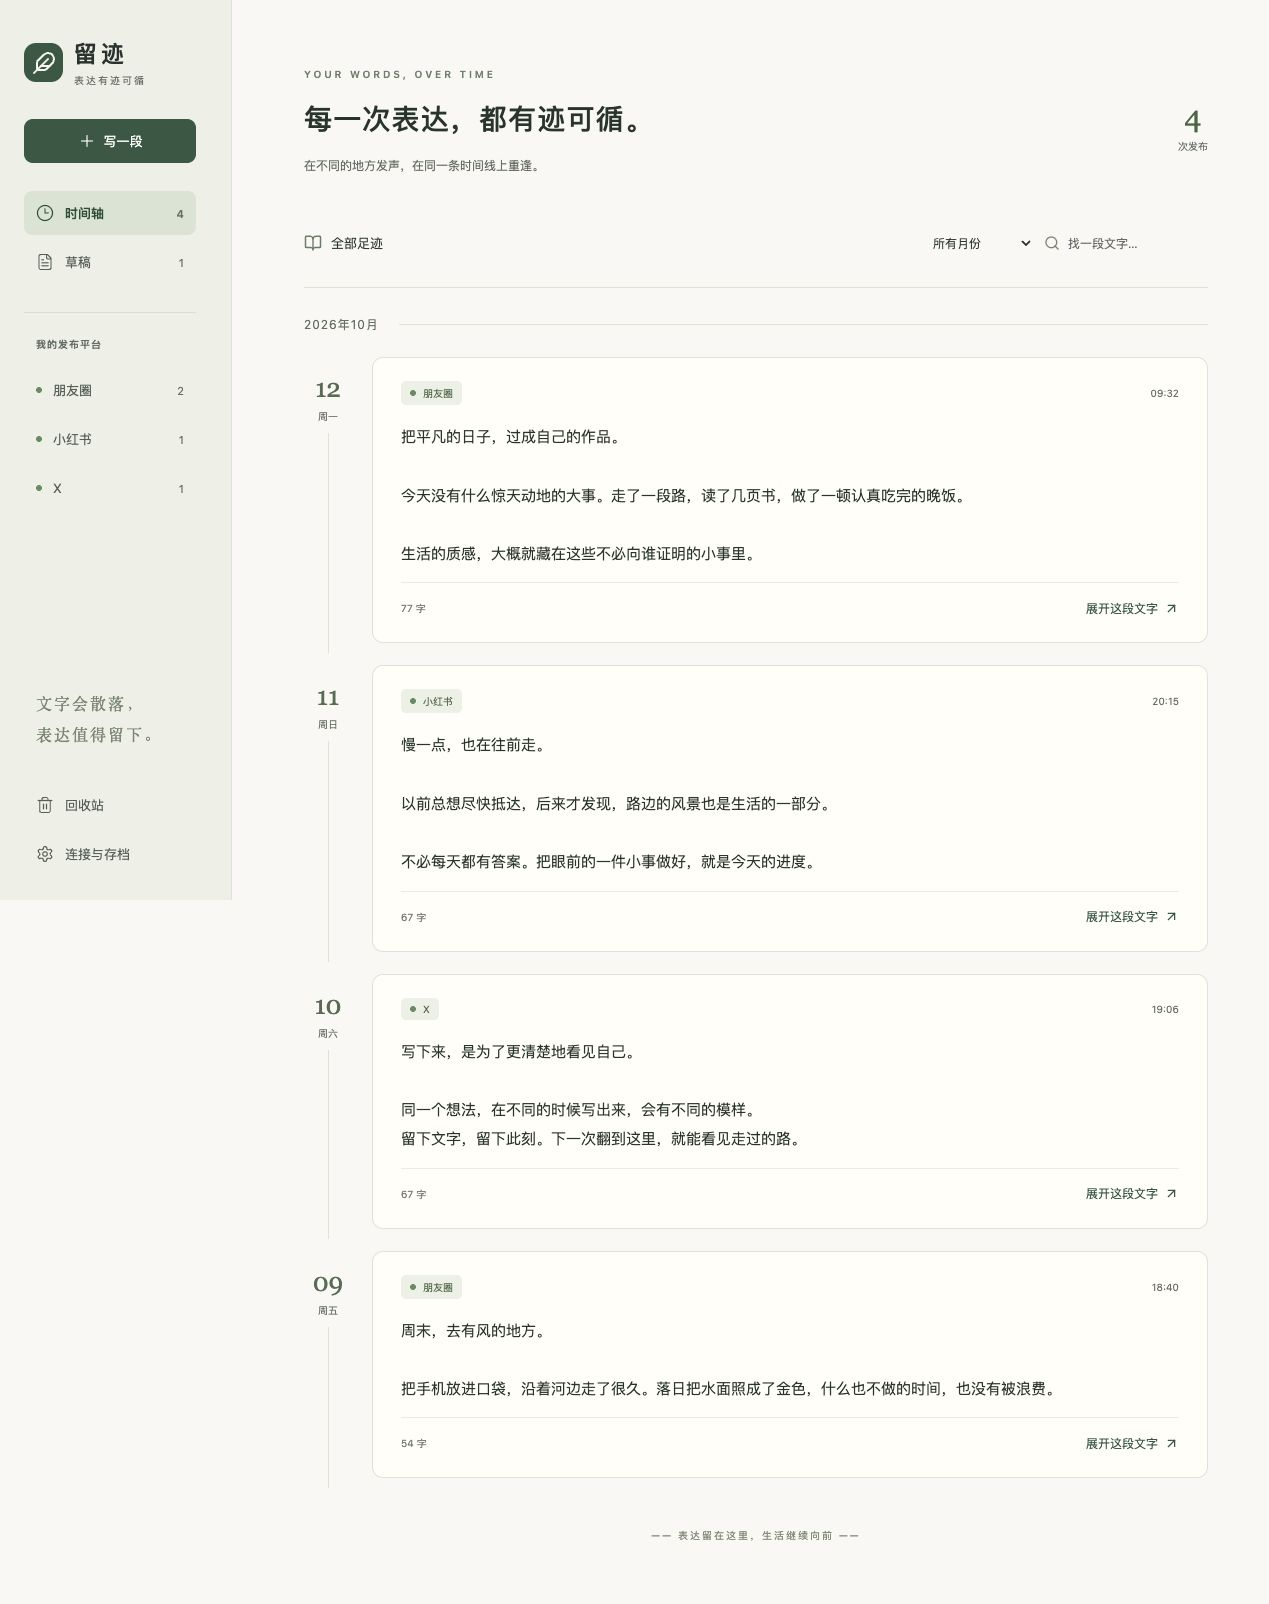
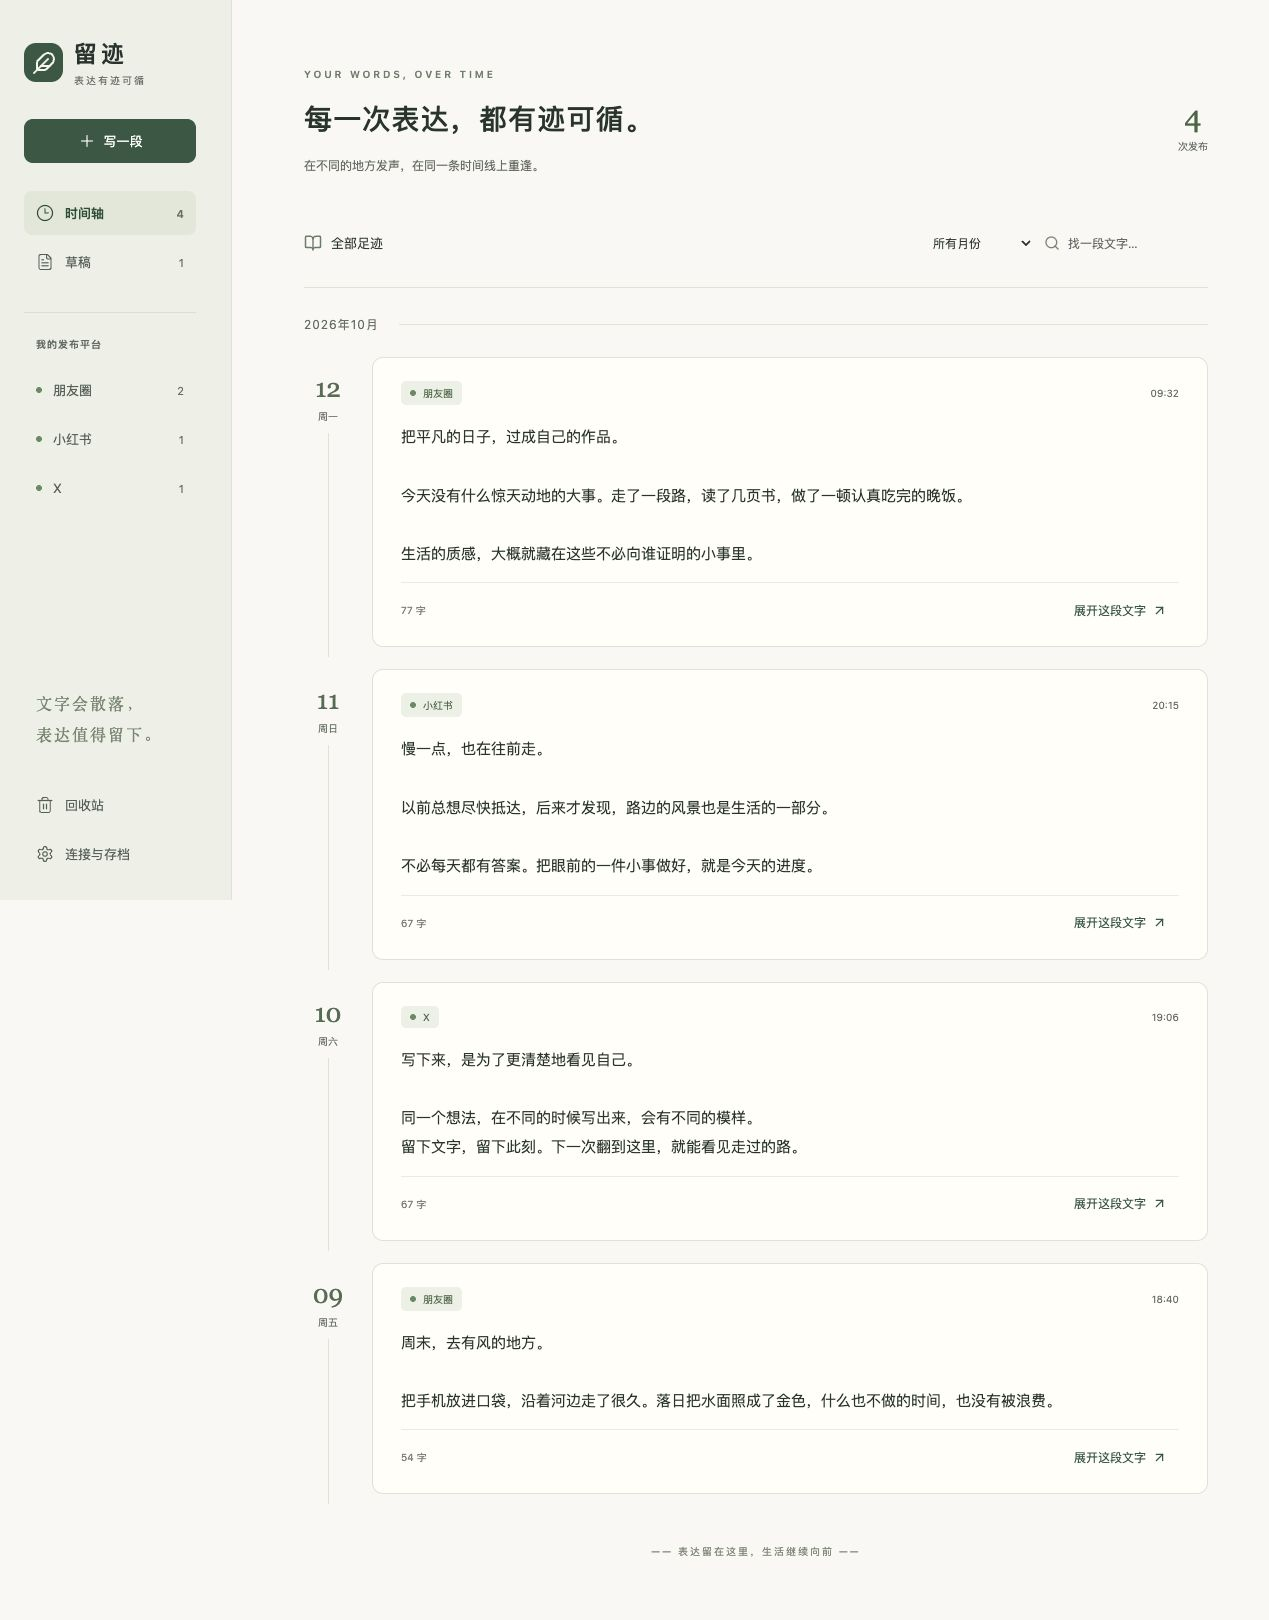
fix: confirm published deletions and use official Node image

diff --git a/src/main.jsx b/src/main.jsx
@@ -212,18 +212,22 @@ function Editor({ initial, onBack, onChanged, notify }) {
     } finally {
       setActionBusy(false);
     }
-  }}>另存新草稿</Button></div>}<footer className="writing-footer"><span>{count} 字 · 自动保存</span><button className="text-button editor-delete" disabled={actionBusy} onClick={() => action(() => setModal("trash"))}><Trash2 size={17} aria-hidden="true" />删除</button></footer>{entry.publications.length > 0 && <div className="entry-history"><h3>这段文字的足迹</h3>{entry.publications.map((p) => <div key={p.id}><span className="platform-dot" />{p.platform}<time>{formatDate(p.publishedAt, { month: "long", day: "numeric", hour: "2-digit", minute: "2-digit", hourCycle: "h23" })}</time></div>)}</div>}</div>{modal === "export" && <ExportDialog text={text} date={entry.createdAt} onClose={() => setModal("")} />}{modal === "publish" && <PublishDialog entry={current.current} onClose={() => setModal("")} onDone={(e) => {
+  }}>另存新草稿</Button></div>}<footer className="writing-footer"><span>{count} 字 · 自动保存</span><button className="text-button editor-delete" disabled={actionBusy} onClick={() => action(async (savedEntry) => {
+    if (savedEntry.publications.length) { setModal("trash"); return; }
+    await api(`/entries/${savedEntry.id}/trash`, { method: "POST", body: { expectedVersion: savedEntry.version, draftOnly: true } });
+    onChanged(); onBack(); notify("草稿已移至回收站，可随时恢复。");
+  })}><Trash2 size={17} aria-hidden="true" />删除</button></footer>{entry.publications.length > 0 && <div className="entry-history"><h3>这段文字的足迹</h3>{entry.publications.map((p) => <div key={p.id}><span className="platform-dot" />{p.platform}<time>{formatDate(p.publishedAt, { month: "long", day: "numeric", hour: "2-digit", minute: "2-digit", hourCycle: "h23" })}</time></div>)}</div>}</div>{modal === "export" && <ExportDialog text={text} date={entry.createdAt} onClose={() => setModal("")} />}{modal === "publish" && <PublishDialog entry={current.current} onClose={() => setModal("")} onDone={(e) => {
     current.current = e;
     setEntry(e);
     setModal("");
     onChanged();
     notify("发布已记录，时间轴多了一枚足迹。");
-  }} />}{modal === "trash" && <Dialog title="移至回收站？" onClose={() => setModal("")}><p>原稿和发布记录会一起隐藏，之后可以恢复。</p><div className="form-footer"><Button onClick={() => setModal("")}>取消</Button><Button kind="primary" disabled={actionBusy} onClick={() => action(async (e) => {
+  }} />}{modal === "trash" && <Dialog title="删除这篇正文？" onClose={() => setModal("")}><p>这篇正文已经发布。删除后，原稿和发布记录会一起移入回收站，之后可以恢复。</p><div className="form-footer"><Button onClick={() => setModal("")}>取消</Button><Button kind="primary" disabled={actionBusy} onClick={() => action(async (e) => {
     await api(`/entries/${e.id}/trash`, { method: "POST", body: { expectedVersion: e.version } });
     onChanged();
     onBack();
     notify("已移至回收站，可随时恢复。");
-  })}>移至回收站</Button></div></Dialog>}</section>;
+  })}>确认删除</Button></div></Dialog>}</section>;
 }
 function SettingsDialog({ onClose, onLogout, notify, authRequired }) {
   const [tokens, setTokens] = useState([]), [name, setName] = useState("工作台"), [scope, setScope] = useState("read"), [issued, setIssued] = useState(null), [error, setError] = useState(""), [busy, setBusy] = useState(false), [revoke, setRevoke] = useState(null);

diff --git a/docs/communication-log/entries/2026-10-12-delete-confirmation.md b/docs/communication-log/entries/2026-10-12-delete-confirmation.md
@@ -1,0 +1,19 @@
+# 区分草稿与正文删除确认
+
+## 用户目标
+草稿删除无需二次确认，已发布正文删除需要二次确认。
+
+## 沟通结论
+编辑页与草稿卡规则一致；已发布正文确认窗支持取消与关闭，所有删除仍可从回收站恢复。
+
+## 实施记录
+编辑页先保存待处理文字，草稿以 draftOnly 原子检查直接删除，已发布正文显示确认窗。更新真实页面截图。Docker 基础镜像改用官方 node 镜像源，避免公开 ECR 的下载限流。
+
+## 验证结果
+桌面实测草稿编辑页直接删除；正文取消后完整保留、确认后移入回收站、随后成功恢复。13 项服务测试和生产构建通过。镜像前次失败为 ECR 429，重新构建结果单独核验。
+
+## 教程提炼
+确认策略应按条目实际业务状态决定；无确认删除仍须由服务端保护并发发布状态。
+
+## 隐私检查
+测试及示例均为临时虚构内容，无真实笔记和凭据。

diff --git a/README.md b/README.md
@@ -11,7 +11,7 @@ Docker自部署时间轴笔记工具，可快速导出为截图。
 - **MCP**：独立只读／读写令牌，让其他工具按权限读取与管理档案。
 - **轻量独立**：无 AI 调用、外部字体或 CDN；无需其他项目。界面中文，日期统一 Asia/Shanghai。
 
-草稿可直接移入回收站：电脑点击卡片右下角红色垃圾桶，手机向左滑动后点击删除；编辑页也保留带垃圾桶图标的删除入口。
+草稿可直接移入回收站：电脑点击卡片右下角红色垃圾桶，手机向左滑动后点击删除；编辑页也保留带垃圾桶图标的删除入口。草稿直接删除，已发布正文需二次确认。
 
 ## 页面示例
 

diff --git a/docs/communication-log/INDEX.md b/docs/communication-log/INDEX.md
@@ -6,3 +6,4 @@
 | 2026-10-12 | [项目简介统一](entries/2026-10-12-project-description.md) | 本纪要所在提交 | 已同步最终文案 |
 | 2026-10-12 | [清洁安装与页面示例](entries/2026-10-12-clean-install-preview.md) | 本纪要所在提交 | 清洁安装、12 项测试和构建通过 |
 | 2026-10-12 | [草稿删除与按钮反馈](entries/2026-10-12-draft-delete.md) | 本纪要所在提交 | 13 项测试、删除恢复及手机左滑通过 |
+| 2026-10-12 | [区分删除确认与镜像源修复](entries/2026-10-12-delete-confirmation.md) | 本纪要所在提交 | 草稿直删、正文确认/取消/恢复实测通过 |
